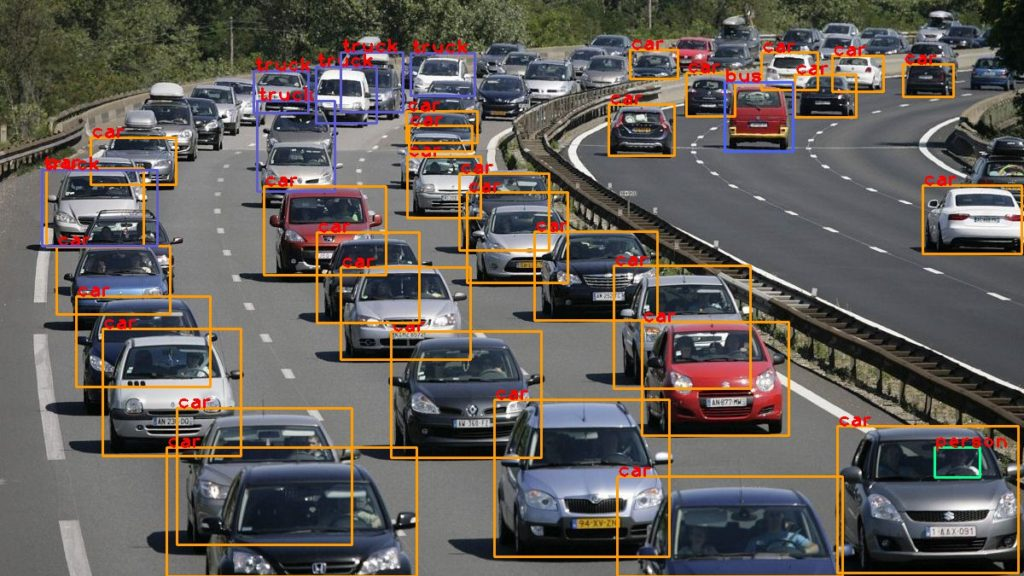
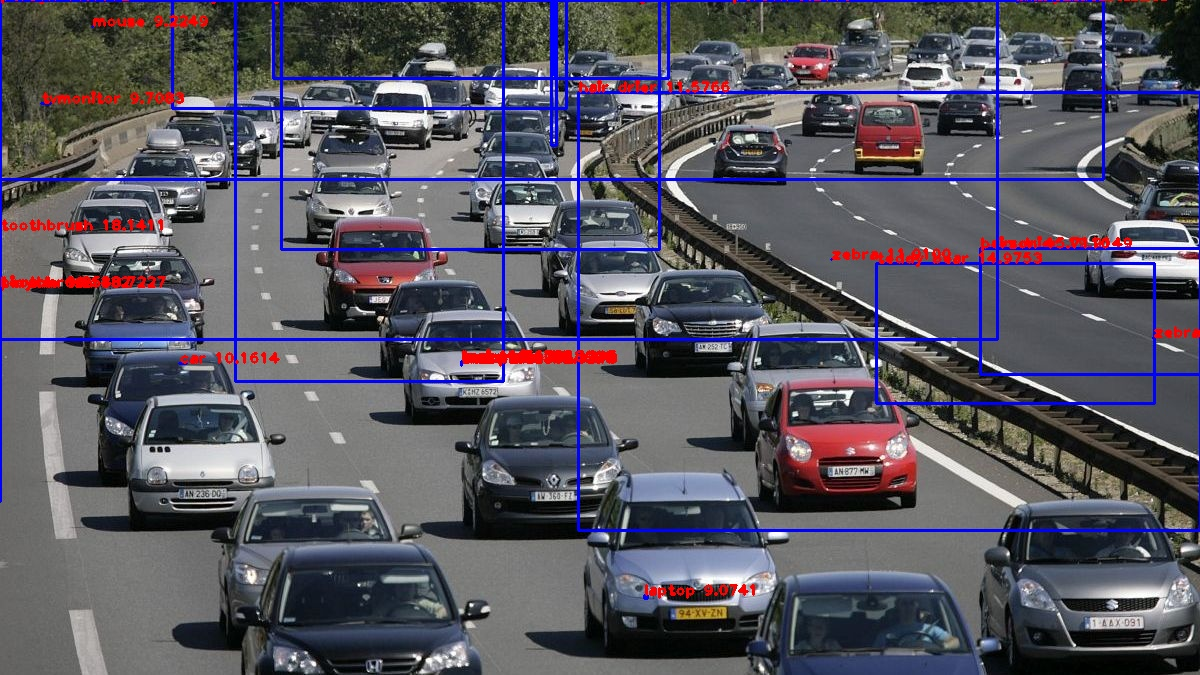
added utils.py and basic running code

Changed region(s): [[0.0, 0.0, 1.0, 1.0]]

diff --git a/Object Detection/YOLOv3(from_scratch)/utils1.py b/Object Detection/YOLOv3(from_scratch)/utils1.py
@@ -1,0 +1,86 @@
+"""
+Written by: Rahmad Sadli
+Website : https://machinelearningspace.com
+
+I finally made this program simple and readable
+Hopefully, this program will help some beginners like me to understand better object detection.
+If you want to redistribute it, just keep the author's name.
+
+In oder to execute this program, you need to install TensorFlow 2.0 and opencv 4.x
+
+For more details about how this program works. I explained well about it, just click the link below:
+https://machinelearningspace.com/the-beginners-guide-to-implementing-yolo-v3-in-tensorflow-2-0-part-1/
+
+Credit to:
+Ayoosh Kathuria who shared his great work using pytorch, really appreaciated it.
+https://blog.paperspace.com/how-to-implement-a-yolo-object-detector-in-pytorch/
+"""
+
+import tensorflow as tf
+import numpy as np
+import cv2
+import time
+
+
+def resize_image(inputs, modelsize):
+    inputs= tf.image.resize(inputs, modelsize)
+    return inputs
+
+
+def output_boxes(inputs,model_size, max_output_size, max_output_size_per_class,
+                 iou_threshold, confidence_threshold):
+
+    center_x, center_y, width, height, confidence, classes = \
+        tf.split(inputs, [1, 1, 1, 1, 1, -1], axis=-1)
+
+    top_left_x = center_x - width / 2.0
+    top_left_y = center_y - height / 2.0
+    bottom_right_x = center_x + width / 2.0
+    bottom_right_y = center_y + height / 2.0
+
+    inputs = tf.concat([top_left_x, top_left_y, bottom_right_x,
+                        bottom_right_y, confidence, classes], axis=-1)
+
+    boxes_dicts = non_max_suppression(inputs, model_size, max_output_size,
+                                      max_output_size_per_class, iou_threshold, confidence_threshold)
+
+    return boxes_dicts
+
+def draw_outputs(img, boxes, objectness, classes, nums, class_names):
+    boxes, objectness, classes, nums = boxes[0], objectness[0], classes[0], nums[0]
+    boxes=np.array(boxes)
+
+    for i in range(nums):
+        x1y1 = tuple((boxes[i,0:2] * [img.shape[1],img.shape[0]]).astype(np.int32))
+        x2y2 = tuple((boxes[i,2:4] * [img.shape[1],img.shape[0]]).astype(np.int32))
+
+        img = cv2.rectangle(img, (x1y1), (x2y2), (255,0,0), 2)
+
+        img = cv2.putText(img, '{} {:.4f}'.format(
+            class_names[int(classes[i])], objectness[i]),
+                          (x1y1), cv2.FONT_HERSHEY_PLAIN, 1, (0, 0, 255), 2)
+    return img
+
+
+
+def load_class_names(file_name):
+    with open(file_name, 'r') as f:
+        class_names = f.read().splitlines()
+    return class_names
+
+def non_max_suppression(inputs, model_size, max_output_size,
+                        max_output_size_per_class, iou_threshold, confidence_threshold):
+    bbox, confs, class_probs = tf.split(inputs, [4, 1, -1], axis=-1)
+    bbox=bbox/model_size[0]
+
+    scores = confs * class_probs
+    boxes, scores, classes, valid_detections = tf.image.combined_non_max_suppression(
+        boxes=tf.reshape(bbox, (tf.shape(bbox)[0], -1, 1, 4)),
+        scores=tf.reshape(scores, (tf.shape(scores)[0], -1, tf.shape(scores)[-1])),
+        max_output_size_per_class=max_output_size_per_class,
+        max_total_size=max_output_size,
+        iou_threshold=iou_threshold,
+        score_threshold=confidence_threshold
+    )
+    return boxes, scores, classes, valid_detections
+

diff --git a/Object Detection/YOLOv3(from_scratch)/YOLOv3.py b/Object Detection/YOLOv3(from_scratch)/YOLOv3.py
@@ -48,6 +48,9 @@ def create_yolo_model(input_layer, configs, num_classes):
     output_filters = []
     filters = []
     scale = 0
+    output_pred = list()
+
+    current_layer = current_layer/255.0
     
     for index, layer in enumerate(configs[1:]):
         #check the type of config
